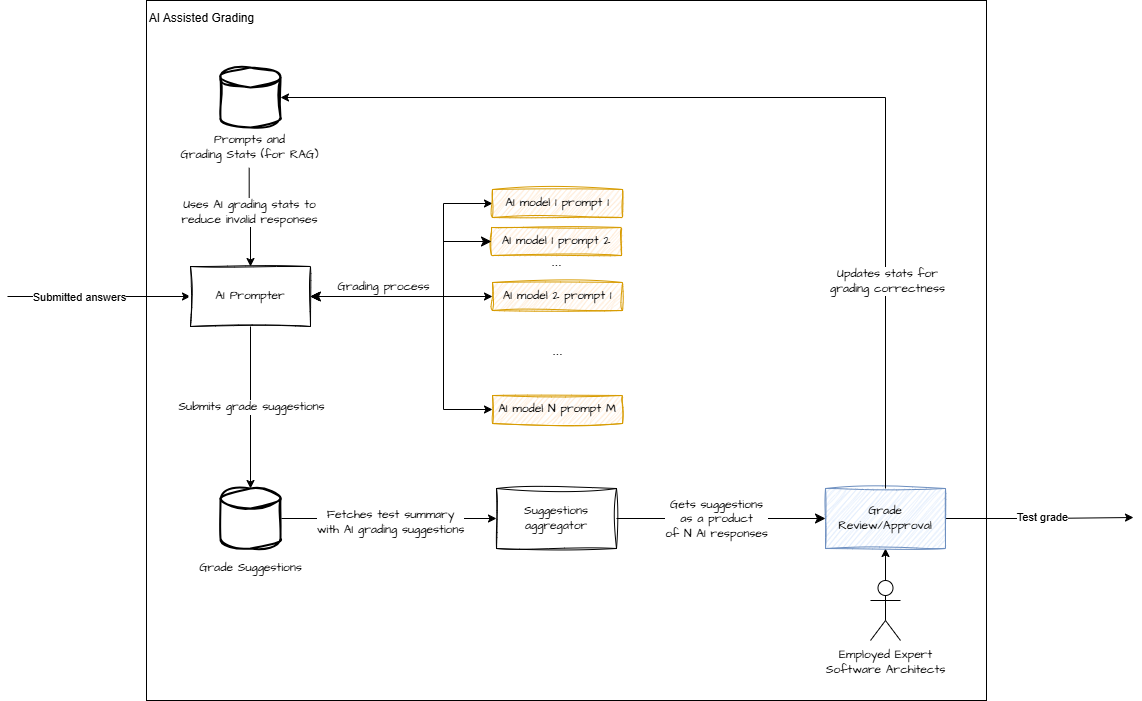
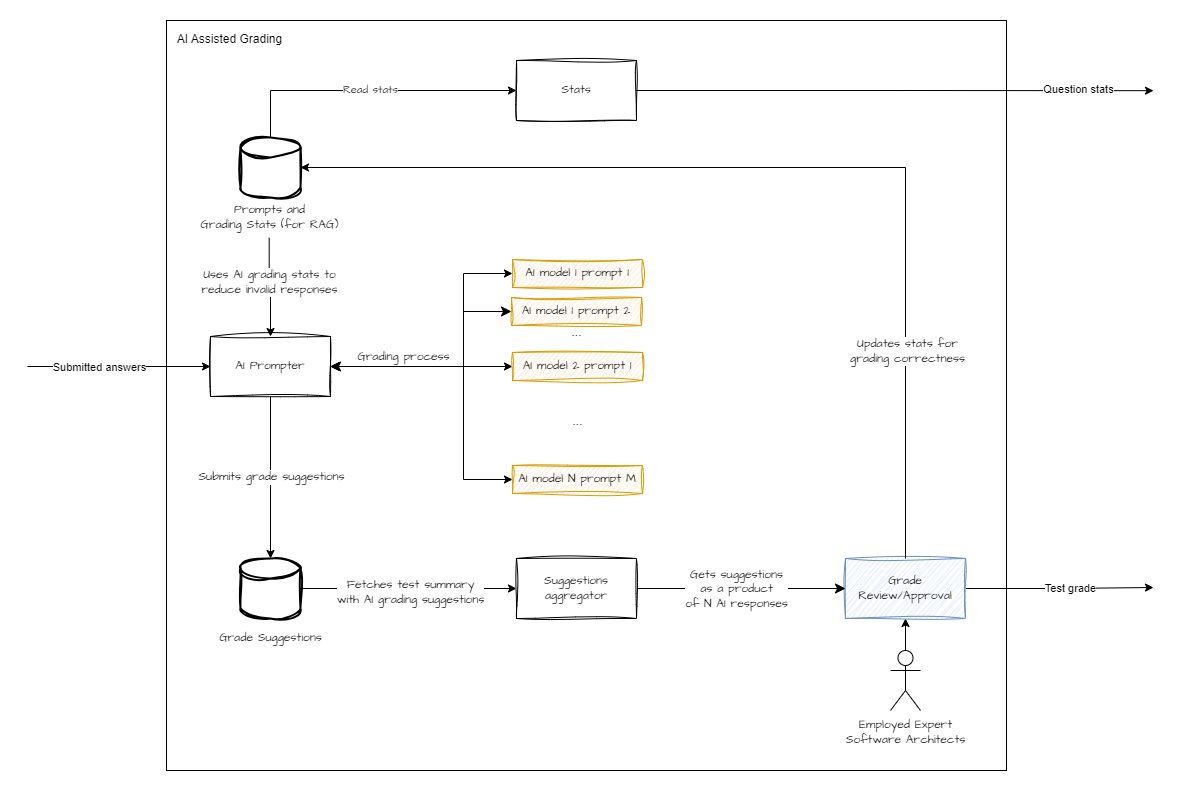
Update arch diagrams (#23)
* Delete resources/Grading-component.png

* Update diagrams and arch section

* improve

diff --git a/readme.md b/readme.md
@@ -97,7 +97,7 @@ The architecture diagram illustrates the automated grading process for Test 1. I
 - Candidate complete Test 1, consisting of multiple-choice and short-answer questions.
 - Responses are stored in a database as ungraded answer
 - Multiple-choice questions are graded through an auto-grading system. **No impact on the current process**
-- Short-answer responses are passed to an [AI Grading](#grading-component) for evaluation. **Human grading process is replaced by new AI Grading**
+- Short-answer responses are passed to an [AI Assisted Grading Component](#ai-assisted-grading-component-architecture) for evaluation. **Human grading process is replaced by new AI Grading**
 - System compiles all graded responses and stores them in a database
 - Candidates are notified via email.
 
@@ -105,7 +105,7 @@ The architecture diagram illustrates the automated grading process for Test 1. I
 
 ![Test 2](./resources/Test-2.png "Test 2")
 
-Test 2 is designed to assess candidates ability to create an architectural solution. Suggested approach modifies the current process by adding evaluation based on [AI Grading](#grading-component)
+Test 2 is designed to assess candidates ability to create an architectural solution. Suggested approach modifies the current process by adding evaluation based on [AI Assisted Grading Component](#ai-assisted-grading-component-architecture)
 
 - Candidate completes Test 2 by designing an architectural solution
 - Solution is uploaded to the Architectural Submissions Database
@@ -116,16 +116,18 @@ Test 2 is designed to assess candidates ability to create an architectural solut
 - If candidate passes, their certification status is updated in the Certification Database
 - Candidate receives his final result via email.
 
-### Grading Component Architecture
+### AI Assisted Grading Component Architecture
 
-![Grading Component](./resources/Grading-component.png "Grading Component")
+![AI Assisted Grading Component](./resources/Grading-component.png "AI Assisted Grading Component")
 
 The AI-Assisted Grading is designed to automate and enhance the grading process by leveraging multiple AI models. This system reduces expert workload.
 
 - Candidate answers are fed into the AI Prompter.
 - AI Prompter formulates queries and requests grading suggestions from multiple AI Models, each with multiple different prompts. Responses are evaluated independently.
+   - AI Prompter takes into consideration AI Grading stats to reduce invalid responses
 - Results are aggregated to generate a final grading suggestion
-- Expert reviews and adjusts AI generated grades if necessary
+- Expert are asked to reviews and adjusts AI generated grades if necessary
+- Grade Review/Approval update statistics for grading correctness
 - Suggestions aggregator is responsible for aggregating stored grades
 
 #### Grading Process
@@ -135,6 +137,16 @@ The AI-Assisted Grading is designed to automate and enhance the grading process 
 - AI Prompter send `N` prompt to `M` AI Models
 - Each model asynchronously send grade suggestion to AI Prompter
 - AI Prompter is responsible for storing data in Grading Suggestion DB
+
+### Test content check Component Architecture
+
+![Test Content Check](./resources/Test-content-checker.png "Test Content Check")
+
+The diagram illustrates the AI-assisted cross-check process for verifying test questions. This component provides test creators with deeper insight into questions quality. See [ADR-0011](./ADR/ADR%200011%20-%20AI-assisted%20cross%20check%20for%20test%20content%20updates.md) for further details.
+
+- Component uses multiple AI models with different prompts to generate diverse answers.
+- AI Models answer test questions, and these responses are submitted to [AI Assisted Grading Component](#ai-assisted-grading-component-architecture) for evaluation
+- The Question Checker retrieves question statistics from the [AI Assisted Grading Component](#ai-assisted-grading-component-architecture)
 
 ## ✍ Architecture Decision Records
 
